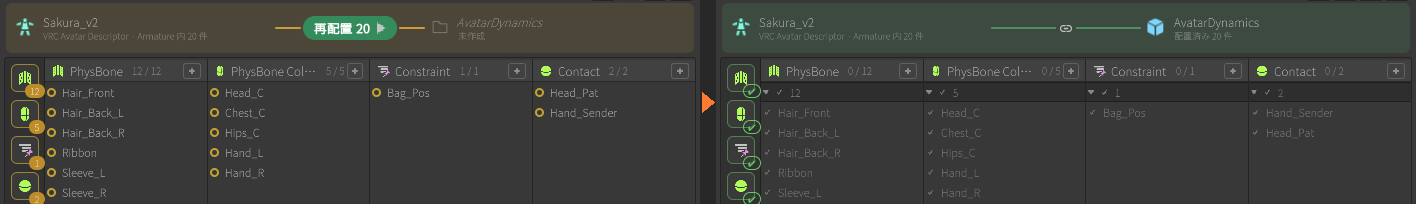
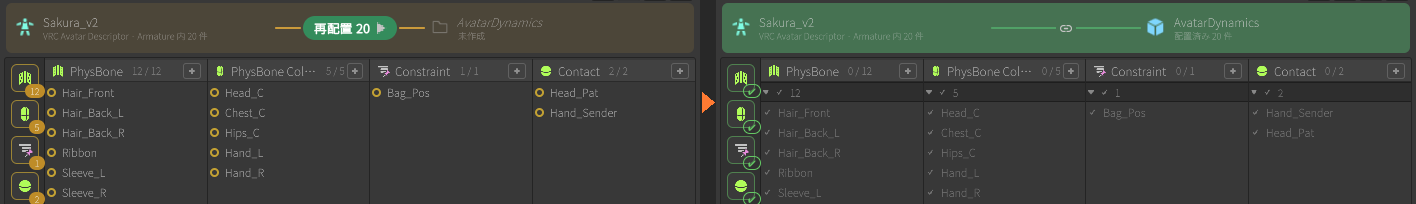
docs: PBRemap の使い方をスクリーンショット化、UITK Font Fix を VPM 依存に、元に戻すアイコンを Undo History に変更
- README: PBRemap の節を実機の Inspector（移植前 → 移植後 / 見方 / 詳細設定）と番号付きの表に置き換え
- README: フォントの節を VCC 依存の説明に変更（git URL の手順を削除）
- package.json: vpmDependencies に jp.colloid.uitk-font-fix ^0.4.0 を追加。source.json の githubRepos に c-colloid/UITKFontFix を追加してこのリストからも解決できるように
- PBRemapIcons.Undo を back（◀）から UndoHistory に変更し、メインウィンドウの図を撮り直し

Claude-Session: https://claude.ai/code/session_01DsZDqwkkLfZsmtHpvy6A6s

Changed region(s): [[0.4972, 0.0, 1.0, 0.2647]]

diff --git a/Editor/Scripts/PBRemap/Editor/PBRemapIcons.cs b/Editor/Scripts/PBRemap/Editor/PBRemapIcons.cs
@@ -38,7 +38,7 @@ namespace colloid.PBReplacer
         public const string Dropdown = "icon dropdown";             // 候補から選ぶ
         public const string Empty = "FolderEmpty Icon";             // 対象なし
         public const string Prefab = "Prefab Icon";
-        public const string Undo = "back";
+        public const string Undo = "UndoHistory";                // 元に戻す（Undo History と同じ記号。◀ は「戻る」と誤読される）
         public const string Pick = "eyeDropper.Large";              // ボーン対応ツール（スポイト = 指して選ぶ）
         public const string Labels = "FilterByLabel";               // 名前ラベル
 

diff --git a/README.md b/README.md
@@ -59,9 +59,9 @@
 
 変更はその場で保存されます。「プロジェクト」の項目はチームで共有され（ProjectSettings/）、「この PC のみ」の項目は個人設定（EditorPrefs）です。各項目の説明はマウスを乗せると表示されます。
 
-### フォント（任意）
+### フォント
 
-UI の日本語は同梱の Noto Sans JP で表示します。[UITKFontFix](https://github.com/c-colloid/UITKFontFix)（`jp.colloid.uitk-font-fix`）を導入すると、OS が日本語/中国語/韓国語のときは OS のフォント（Yu Gothic UI / Meiryo / Noto Sans CJK）で表示されます。Package Manager の「Add package from git URL...」に `https://github.com/c-colloid/UITKFontFix.git?path=jp.colloid.uitk-font-fix` を指定してください。
+UI の日本語表示には [UITK Font Fix](https://github.com/c-colloid/UITKFontFix)（`jp.colloid.uitk-font-fix`）を使います。VCC の依存関係になっているので、PBReplacer を入れると一緒に入ります。OS が日本語/中国語/韓国語のときは OS のフォント（Yu Gothic UI / Meiryo / Noto Sans CJK）、それ以外は同梱の Noto Sans JP で表示します。
 
 ## その他仕様
 
@@ -71,42 +71,47 @@ UI の日本語は同梱の Noto Sans JP で表示します。[UITKFontFix](http
 
 ### PBRemap（移植機能）
 
-あるアバター/衣装/小物のAvatarDynamics配下（PhysBone等）を、別のアバター/衣装/小物へボーン構成の違いを吸収しながら移植する機能です。
-**AvatarDynamicsのGameObjectを移植先へドラッグ＆ドロップするだけ**で移植できます。
+AvatarDynamics 配下の PhysBone 等を、別のアバター/衣装/小物へボーン構成の違いを吸収しながら移植します。
+**AvatarDynamics を移植先へドラッグ＆ドロップするだけ**です。
 
-1. 移植元でPBReplacerのApplyを実行し、AvatarDynamics階層を作ります
-2. PBReplacerメインウィンドウ右上の「⋮」→「他のアバターへ移植 (PBRemap)...」を選ぶと、AvatarDynamicsにPBRemapコンポーネントが付き、移植元のボーン参照情報（マニフェスト）が自動保存されます
-   （Add Component から「PBReplacer/PB Remap」を付けても同じです。Inspectorを開かなくても参照情報はバックグラウンドで保存されます）
-3. AvatarDynamics（PBRemap付き）を移植先アバターの子階層へドラッグ＆ドロップします
-   - Inspector の上部に「移植元 → 移植先」の流れが表示されます。真ん中の **→ 移植** ボタンを押すと移植されます（Ctrl+Z で取り消せます）
-   - Hierarchy の PBRemap 行にも状態アイコンが出ます（🔗 接続済み / → 移植できる / 参照切れ / 置き場所が認識できない）
-   - 「AutoOnDrop」にすると、ドロップした時点で自動で移植します（Project からの Prefab ドロップやペーストも対象）。対応先の候補が複数ある参照がある場合だけ保留して選択を促し、移植先に対応物が無い参照は移植元を指したまま残して Console に警告します
-   - 「BuildOnly」にすると編集時には何もせず、NDMF ビルド（再生）時に非破壊で移植します。Hierarchy と Inspector には ▶ が出て「ビルド時に移植される」ことを示します。VRC アバター配下ではない置き場所（単体の衣装・小物・Animator だけのオブジェクト）は NDMF が処理しないため、再生開始時に PBRemap 自身が非破壊で移植します（VRChat へのビルドには含まれません）
-4. Prefab化して別シーン・別プロジェクトへ持ち出した場合も、保存済みの参照情報から解決できます
+1. 移植元で PBReplacer の再配置を実行し、AvatarDynamics を作る
+2. メインウィンドウ右上の ⋮ →「他のアバターへ移植 (PBRemap)...」で AvatarDynamics に PB Remap を付ける（Add Component からでも同じ）。移植元のボーン参照情報は自動で保存されます
+3. AvatarDynamics を移植先アバターの子へドラッグ＆ドロップし、Inspector の **移植 ▶** を押す ①（Ctrl+Z で取り消せます）
 
-Inspector の見かた:
+![PBRemap の手順](Docs~/images/remap-steps.png)
 
-* 流れの行: 左が移植元、右が移植先（置き場所）。右のノードへ Hierarchy からアバター/衣装をドロップすると、その配下へ移動します
-* チップ: ✔ 解決済み / ＋ 自動作成 / ⚠ 要選択 / ✖ 未解決 の件数（クリックで表の表示を切り替え）と、スケール比（クリックで 自動/手動/なし）
-* 表: 問題のある行だけが出ます。右の欄へボーンをドロップすると手動で対応付け、⚠ の行は ▾ から候補を選べます
-* ↻ 参照情報の取り直し / 👁 SceneView に対応線を表示 / ⚙ 詳細設定（ドロップ時の動作、名前の対応ルール、手動指定、参照情報）
-* SceneView: 青の輪（移植元）→ 緑の点（移植先）を曲線と矢印で結びます。赤✕（対応先なし）をクリックすると「ボーン対応」ツールが起動し、移植先の骨に出る点をクリックして対応を決められます。琥珀▾の候補は輪をクリックで確定。オーバーレイのアイコンで線/名前/件数の絞り込みを切り替えます
+移植後は流れが緑の 🔗 になり、以後そのアバターの一部として扱われます。Prefab 化して別シーン・別プロジェクトへ持ち出しても、保存済みの参照情報から解決できます。
 
-衣装だけを移植する（アバター本体には触れない）:
+#### Inspector の見方
 
-* 衣装ルート（MergeArmature を持つ Armature の親）の配下に置いた AvatarDynamics は **衣装を単位** として扱われます。
-  同じアバター内の衣装 v1 → v2、AvatarA に着せた衣装 → AvatarB に着せた同じ衣装、いずれも衣装の AvatarDynamics をドラッグするだけで、アバター本体のボーンや本体の AvatarDynamics には手を触れません
-* 衣装ボーンへの参照は衣装同士の寸法比で、アバターボーンへの参照（帽子の Constraint など）はアバター同士の寸法比で補正されます
-* 衣装 Prefab に AvatarDynamics を同梱して別のアバターへ置いた場合、失われたアバターボーン参照は参照情報から復元されます
+![PBRemap Inspector の見方](Docs~/images/remap-guide.png)
+
+| # | 部位 | 操作 |
+|---|---|---|
+| ① | ツール行 | ↻ 参照情報の取り直し / 👁 SceneView に対応線を表示 / ⚙ 詳細設定 |
+| ② | 流れ | 左が移植元、右が移植先（置き場所）。右のノードへ Hierarchy からアバター/衣装をドロップすると、その配下へ移動 |
+| ③ | チップ | ✔ 解決済み / ＋ 自動作成 / ▾ 要選択 / ✖ 未解決 の件数。クリックで表の表示を切り替え |
+| ④ | スケール比 | クリックで 自動 / 手動 / なし。radius や height はこの比で補正（何度実行しても二重に補正されません） |
+| ⑤ | 表 | 対応付けの一覧。右の欄へボーンをドロップすると手動で対応付け、▾ の行は候補から選択 |
+
+SceneView では青の輪（移植元）→ 緑の点（移植先）を線で結びます。赤 ✕（対応先なし）をクリックすると「ボーン対応」ツールが起動し、移植先の骨に出る点をクリックして対応を決められます。Hierarchy の PBRemap 行にも状態アイコン（🔗 接続済み / ▶ 移植できる / 参照切れ）が出ます。
+
+#### 詳細設定（⚙）
+
+![PBRemap の詳細設定](Docs~/images/remap-settings.png)
+
+| 項目 | 内容 |
+|---|---|
+| ドロップ時 | **Confirm**: 置いた後に Inspector の ▶ で移植 / **AutoOnDrop**: ドロップした時点で自動で移植（候補が複数ある参照だけ保留） / **BuildOnly**: 編集時は何もせず NDMF ビルド時に非破壊で移植 |
+| スケール | Auto: Hips-Head 距離比 → ボーン間距離比 / Manual: 世界寸法比を手入力 / None: 補正しない |
+| 名前の対応ルール | ボーン名やパスが異なるアバター間で使う対応ルール（双方向に適用） |
+| 手動指定 | 自動検出が正しく動かないときに移植元/移植先を指定 |
 
 対応している移植元/移植先:
 
-* VRCAvatarDescriptor付きアバター（Humanoidボーンで対応付け）
-* Modular Avatar の MergeArmature 付き衣装（prefix/suffixを考慮。着せ替え済みアバターでは本体・衣装それぞれのボーンを別コンテキストとして扱います）
-* Animator/Descriptorの無い小物（SkinnedMeshRendererを持つオブジェクト。パス/名前で対応付け）
-
-解決できないボーンは Inspector の表で手動指定（Transformをドロップ、または同名候補から選択）できます。
-PhysBone等のradius/height等は「移植元の元値 × 世界寸法比 × 移植元/移植先ボーンのlossyScale比」で補正されるため、何度実行しても（NDMFビルドで再実行されても）二重に補正されません。
+* VRCAvatarDescriptor 付きアバター（Humanoid ボーンで対応付け）
+* Modular Avatar の MergeArmature 付き衣装（prefix/suffix を考慮）。衣装ルート配下に置いた AvatarDynamics は**衣装を単位**として扱われ、アバター本体のボーンや本体の AvatarDynamics には触れません
+* Animator/Descriptor の無い小物（SkinnedMeshRenderer を持つオブジェクト。パス/名前で対応付け）
 
 # 注意
 
